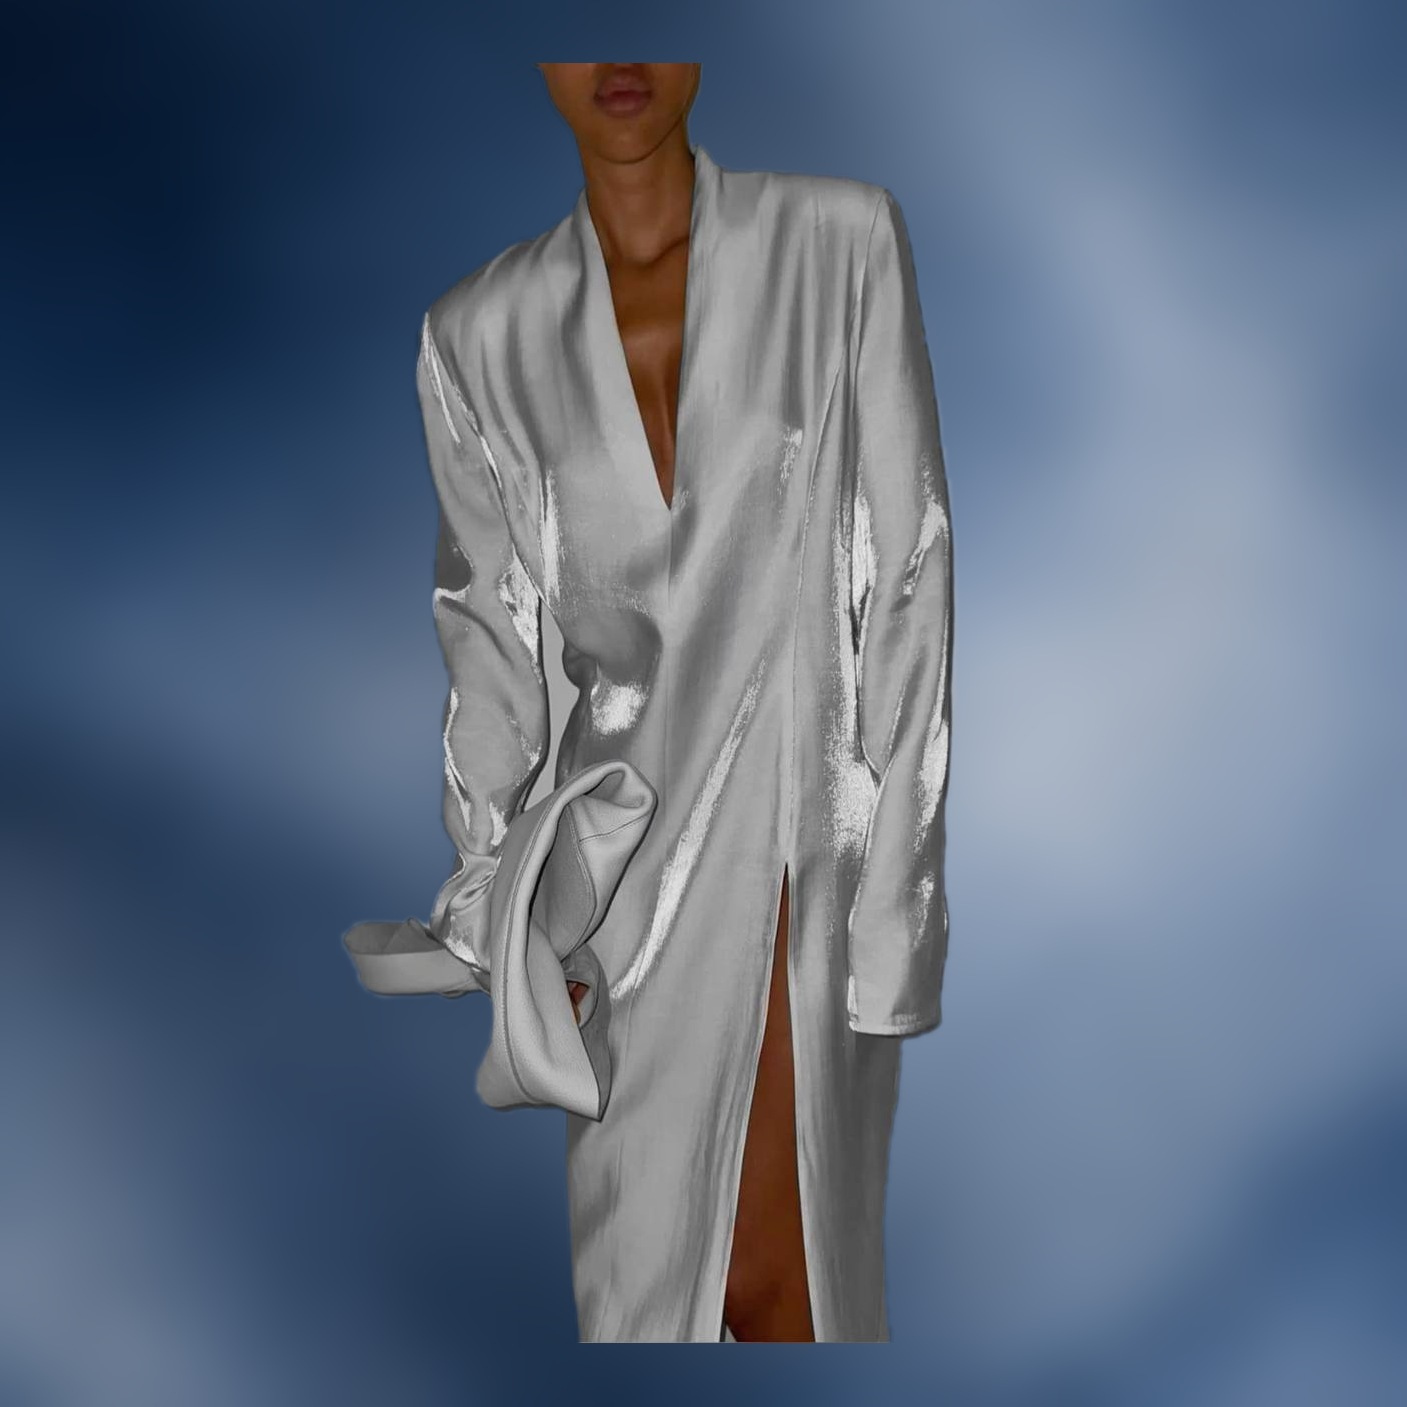
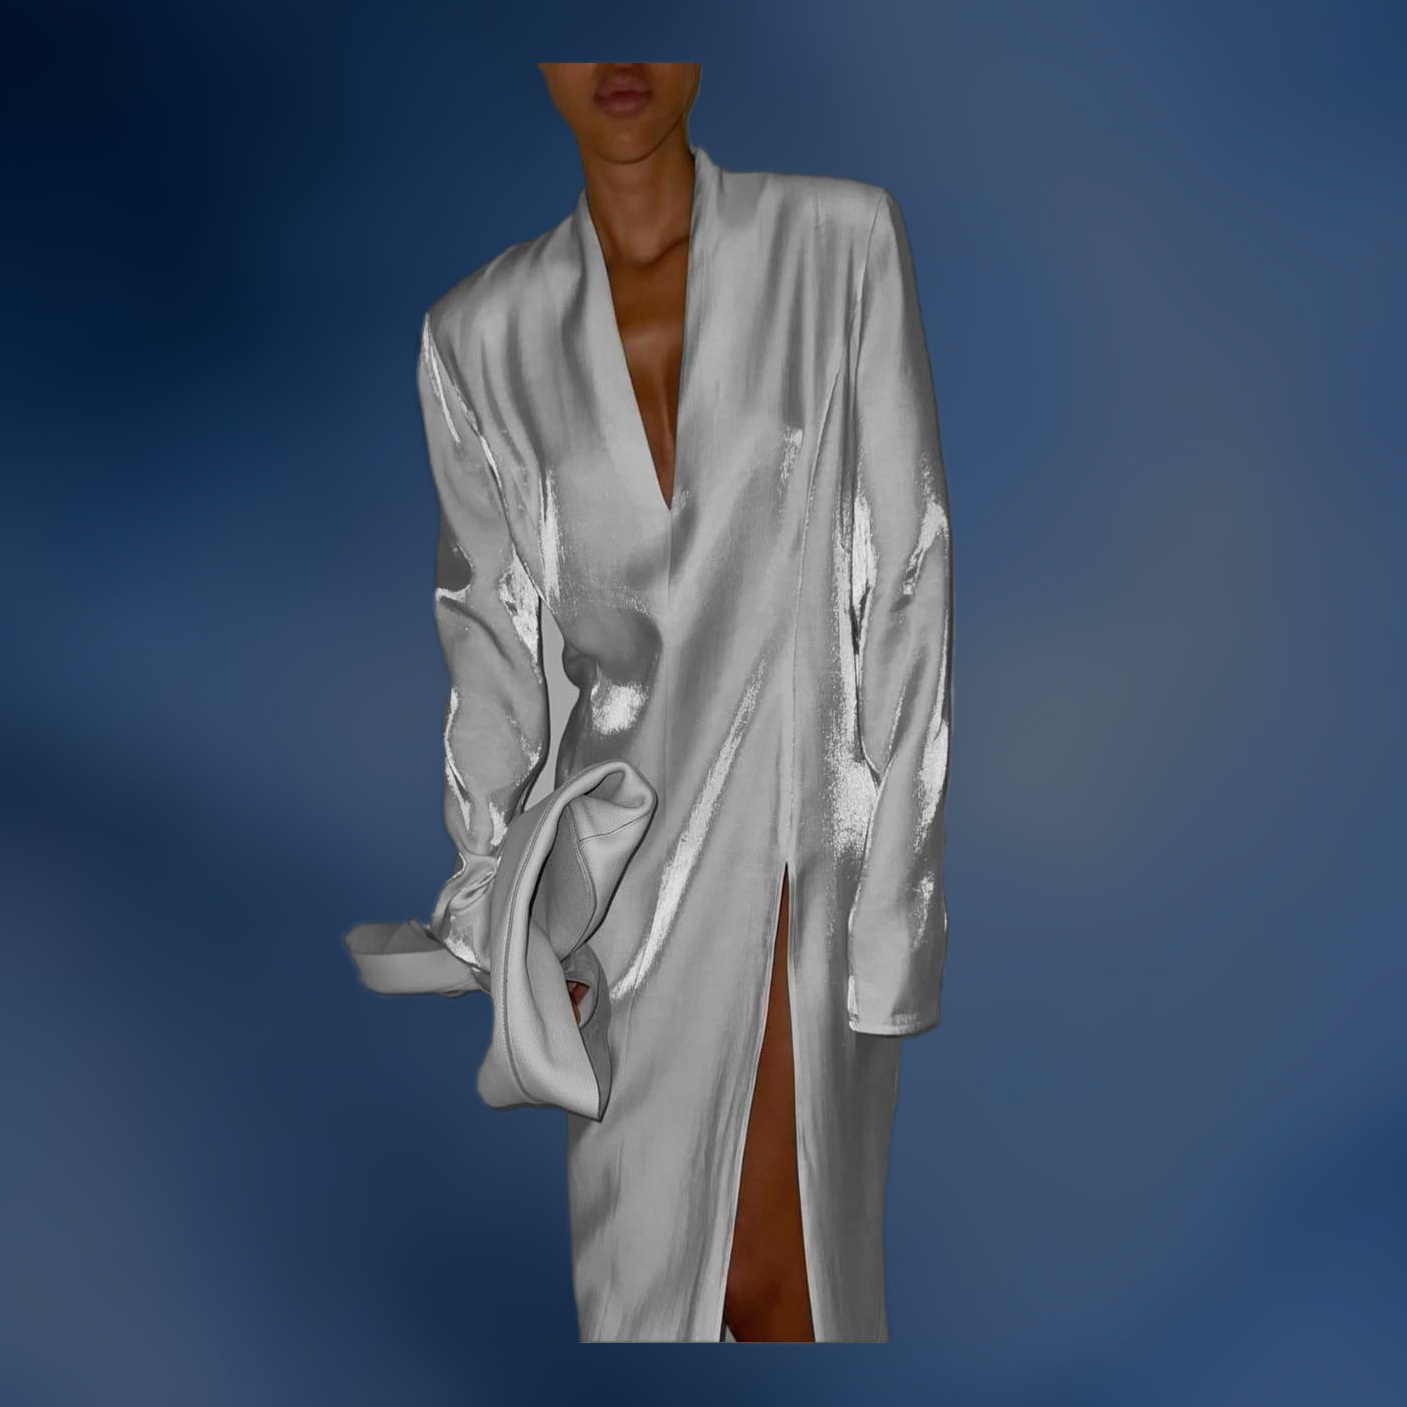
Swapped images in the dresscode gallery for better visual representation and removed the footer text "Денис & Вероника". Updated the binary file for women-1.jpg.

diff --git a/index.html b/index.html
@@ -501,13 +501,13 @@
                                     <div class="dresscode-gallery-viewport">
                                         <ul class="dresscode-gallery-track">
                                             <li class="dresscode-gallery-slide is-active">
-                                                <img src="images/women-1.jpg" alt="Пример образа для неё" draggable="false" />
+                                                <img src="images/women-3.jpg" alt="Пример образа для неё" draggable="false" />
                                             </li>
                                             <li class="dresscode-gallery-slide">
                                                 <img src="images/women-2.jpg" alt="Пример образа для неё" draggable="false" />
                                             </li>
                                             <li class="dresscode-gallery-slide">
-                                                <img src="images/women-3.jpg" alt="Пример образа для неё" draggable="false" />
+                                                <img src="images/women-1.jpg" alt="Пример образа для неё" draggable="false" />
                                             </li>
                                             <li class="dresscode-gallery-slide">
                                                 <img src="images/women-4.jpg" alt="Пример образа для неё" draggable="false" />
@@ -829,7 +829,6 @@
                         <path d="M60 4c-2.5 3.5-6 6-10 8 4 2 7.5 4.5 10 8 2.5-3.5 6-6 10-8-4-2-7.5-4.5-10-8z" fill="currentColor" />
                     </svg>
                 </div>
-                <p>Денис &amp; Вероника</p>
             </footer>
 
         </div>
